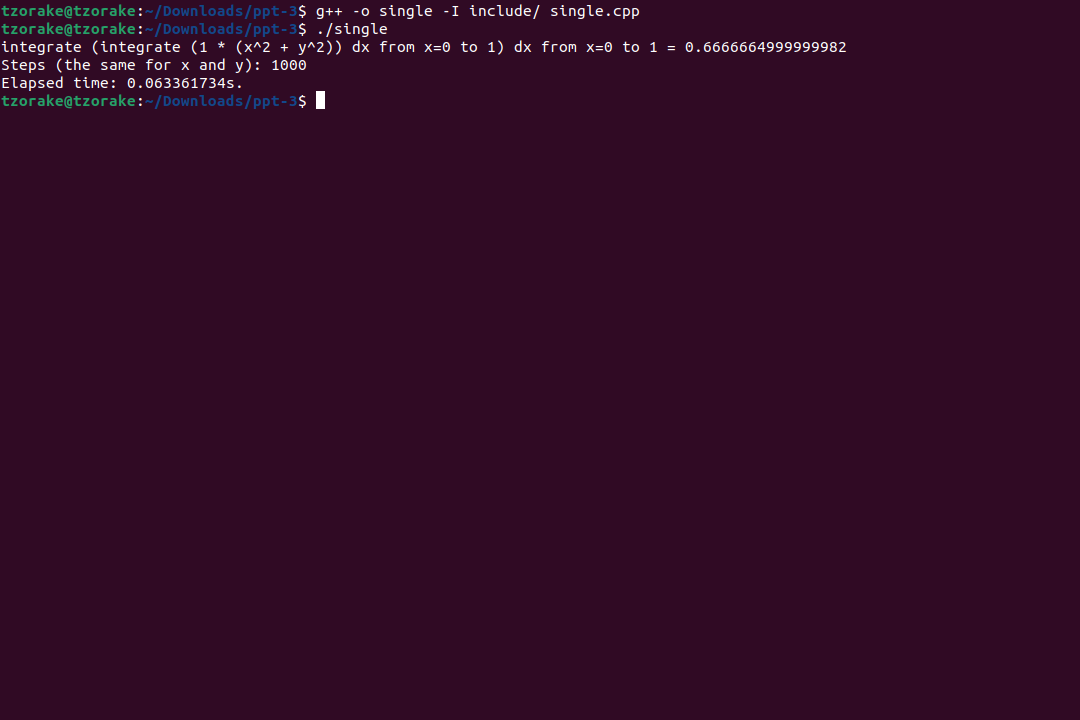
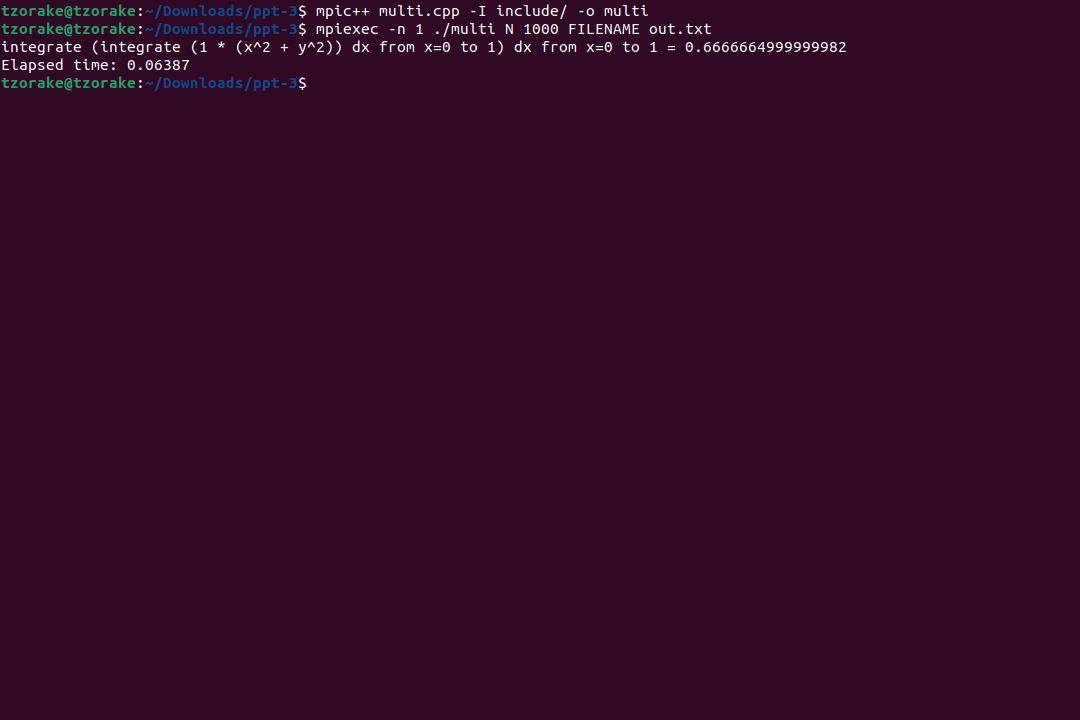
Update the code

Changed region(s): [[0.0, 0.0611, 0.3056, 0.1528], [0.275, 0.0, 0.6722, 0.0611]]

diff --git a/ppt-3/multi.cpp b/ppt-3/multi.cpp
@@ -165,9 +165,9 @@ int main(int argc, char **argv)
 		elapsed = MPI_Wtime() - elapsed;
 
 		std::cout << fmt::format(
-			"integrate ({}) dx from x={} to {} = {}",
-			fmt::format("integrate ({} * (x^{} + y^{})) dx from x={} to {}", A, B, C, c, d),
-			a, b, integral ) << std::endl
+			"integrate ({}) dy from y={} to {} = {}",
+			fmt::format("integrate ({} * (x^{} + y^{})) dx from x={} to {}", A, B, C, a, b),
+			c, d, integral ) << std::endl
 		<< "Elapsed time: " << elapsed  << std::endl;
 
 	    FileSystem::writeFile(filename, std::to_string(elapsed));

diff --git a/ppt-3/README.md b/ppt-3/README.md
@@ -6,8 +6,8 @@
 Ниже описаны шаги по сборке и запуску. Для запуска программы необходимо установить `OpemMPI`.
 
 ```console
-g++ -o single -I include/ single.cpp
-./single
+mpic++ multi.cpp -I include/ -o multi
+mpiexec -n 1 ./multi N 1000 FILENAME out.txt
 
 g++ -o main -I include/ main.cpp
 ./main
